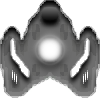
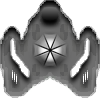
New Graphics added

Changed region(s): [[0.33, 0.33, 0.66, 0.66], [0.66, 0.48, 0.69, 0.51], [0.48, 0.66, 0.51, 0.69]]

diff --git a/src/main/java/de/dc/planetsudo/game/GameObjectImages.java b/src/main/java/de/dc/planetsudo/game/GameObjectImages.java
@@ -12,13 +12,14 @@ public enum GameObjectImages {
 
 	Default("mothership.png"),
 	Mothership("mothership2.png"),
-	Agent("agent1.png"),
+	Agent("agent-HD.png"),
+	AgentCommander("commander-HD.png"),
 	ResourceNormal("resource1.png"),
 	ResourceDoublePoints("resource3.png"),
 	ResourceExtremPoint("resource6.png"),
 	ResourceExtraAgentFuel("resource5.png"),
 	ResourceExtraMothershipFuel("resource7.png"),
-	ResourceMine("resource4.png");
+	ResourceMine("mine.png");
 
 	public static final String IMAGE_DIRECTORY = "img";
 	public final String imagesURL;

diff --git a/src/main/java/de/dc/planetsudo/game/GameSound.java b/src/main/java/de/dc/planetsudo/game/GameSound.java
@@ -13,9 +13,20 @@ import java.io.File;
  */
 public enum GameSound implements FileHolder {
 
+	/*
+	 Minenexplosion
+	 * Agent explodier
+	 * Muttaschiff explodiert
+	 * Laser
+	 * Mine Legen
+	 * Marker setzen
+	 * Hilferuf
+	 * (tanken)
+	 * Unterstützen
+	 * Resource abliefern	 */
 	DeployMine("sound/sound.wav"),
-	AgentExplosion(""),
-	MothershipExplosion(""),
+	AgentExplosion("sound/sound.wav"),
+	MothershipExplosion("sound/sound.wav"),
 	Laser("sound/sound.wav");
 
 	private final File soundFile;
